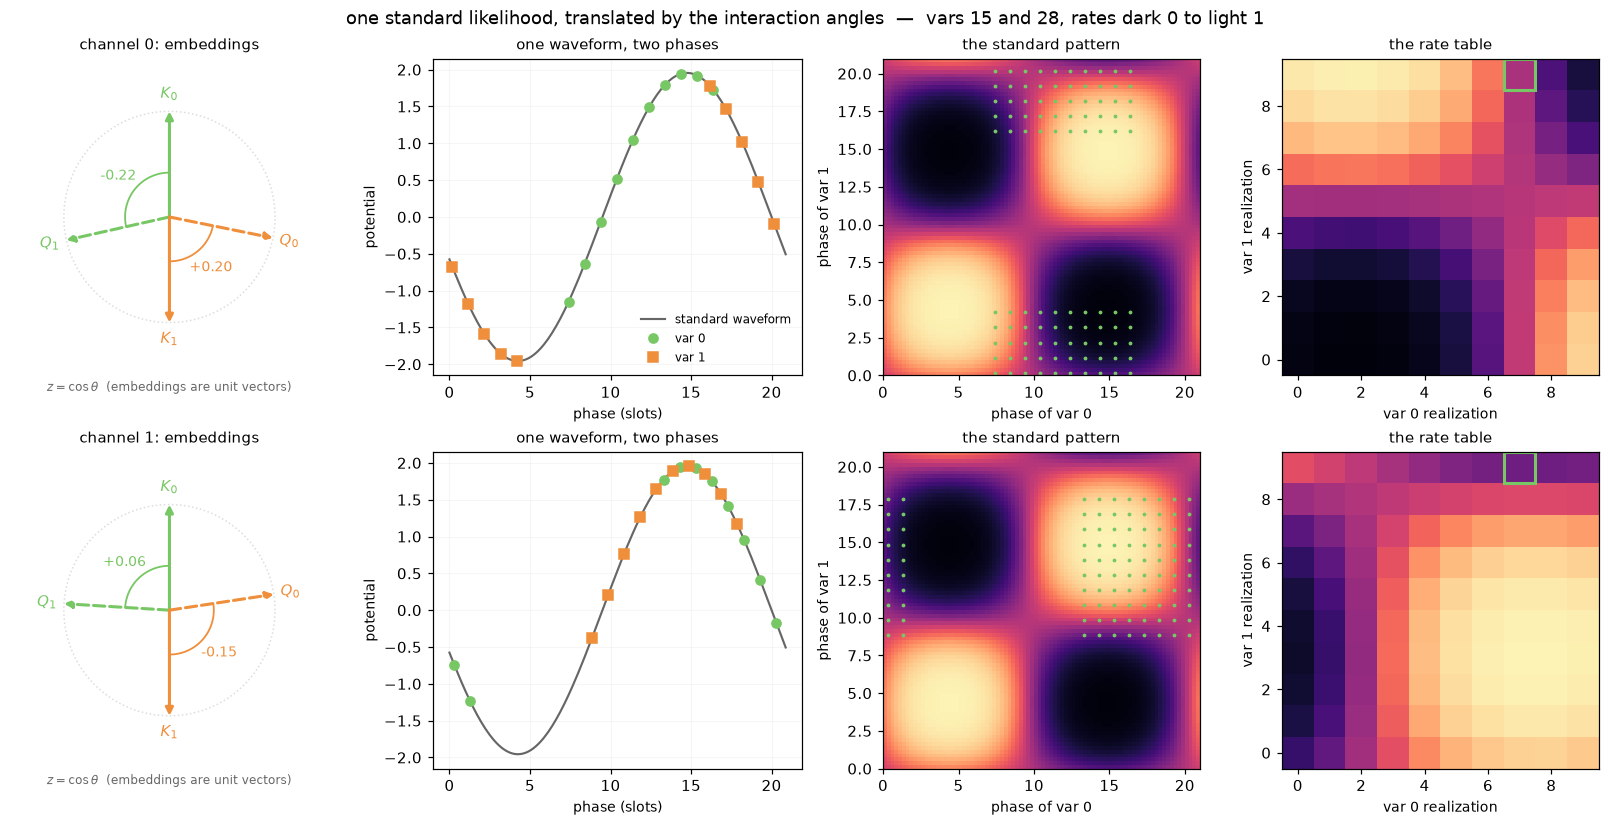
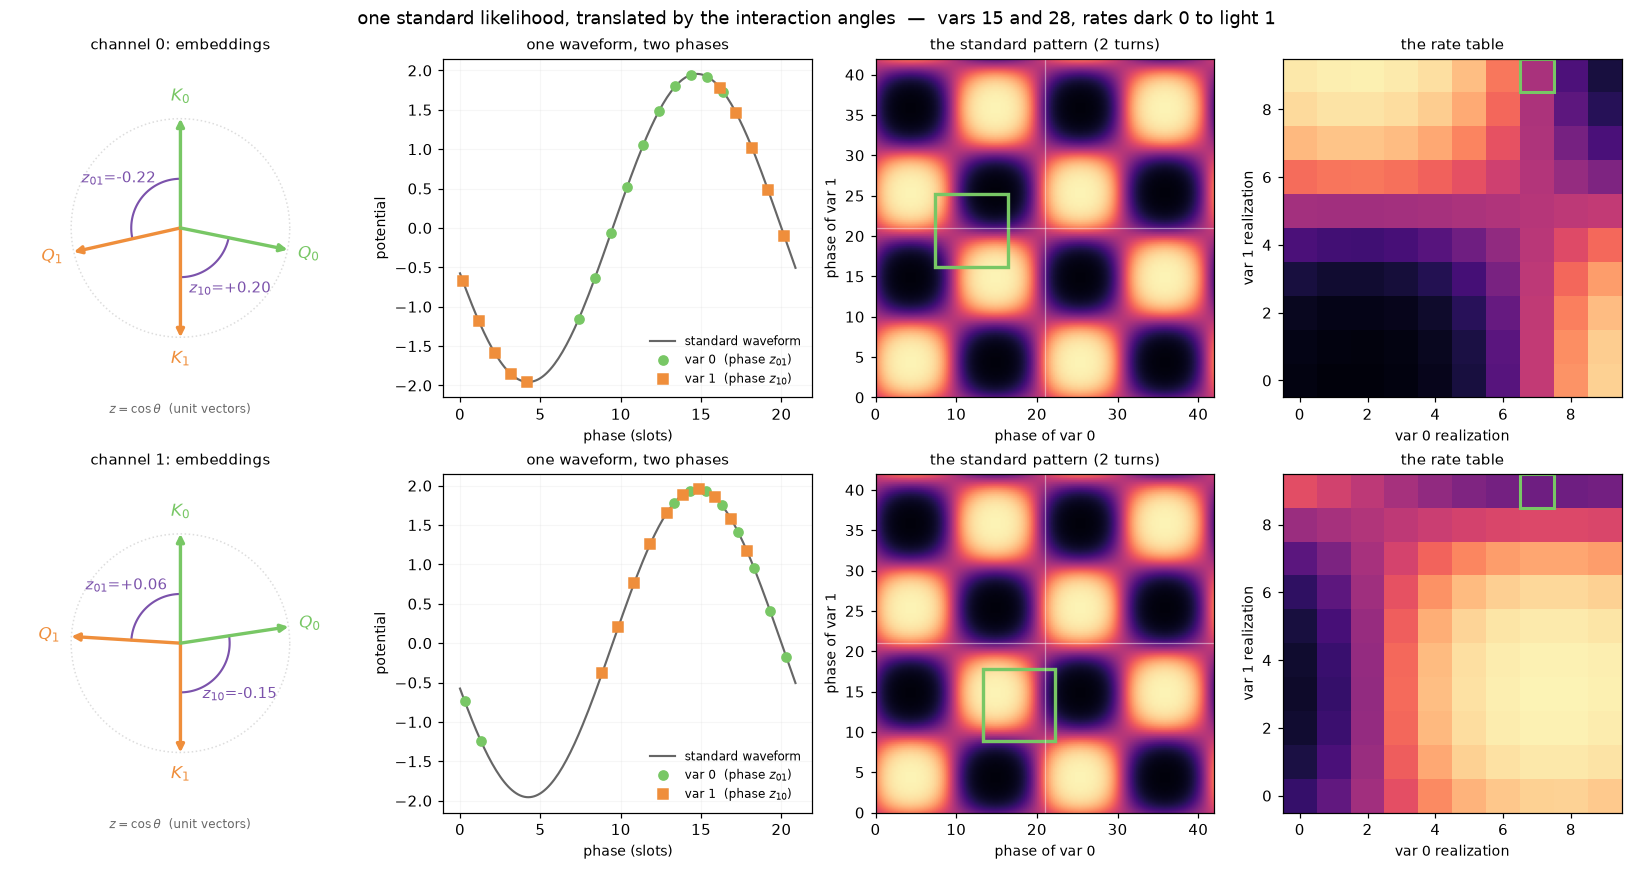
Clarify the phase figure: colour by variable, box the window
Three fixes, all from reading the figure rather than the code.

Colour now means one thing only: which variable owns a vector. Previously
`K_1` and `Q_0` shared a colour because they jointly set var 1's phase, which
read as a claim that they belong together. The interaction strength gets its
own colour, since it belongs to neither variable, and is labelled explicitly
as `z_01` / `z_10` rather than left implicit in an arc.

The window on the standard pattern was a grid of dots. Phase is periodic, and
this episode's window crosses the wrap, so `mod` scattered those dots into
what looked like two separate grids -- reasonably read as a second
observation's likelihood. The pattern is now drawn over two turns with the
window as a single box, so a window running off one edge visibly continues on
the next copy.

diff --git a/src/coggrid/viz/plots.py b/src/coggrid/viz/plots.py
@@ -734,28 +734,51 @@ def _wave_at(cfg, waveform: np.ndarray, position: np.ndarray) -> np.ndarray:
                      period=1.0)
 
 
-def _draw_angle(ax, cosine: float, baseline: float, colour: str,
-                tips: tuple[str, str]) -> None:
-    """Draw one key/query pair as arrows on a unit circle, ``cosine`` apart.
+#: Interaction strengths get their own colour throughout the phase figure, so
+#: that variable colours can mean "which variable owns this vector" and nothing
+#: else.
+PHASE_COLOR = "#7b52ab"
 
-    The two vectors span a plane, and they are drawn *in that plane*, so the
-    angle between the arrows is the true angle in the full embedding space — not
-    a projection of it. Only the absolute orientation is arbitrary, which is why
-    each pair gets its own ``baseline``.
+
+def _standard_waveform(cfg, n_samples: int = 2001) -> np.ndarray:
+    """The one potential waveform every variable is a phase-shifted copy of.
+
+    Recovered by reading realization 0 as the interaction strength sweeps a full
+    turn, which is the same thing as evaluating the waveform at every phase.
+    """
+    turn = np.linspace(0.0, 1.0, n_samples)[:-1]
+    return gen.realization_potential(turn, gen.value_profile(cfg), cfg.n_roll)[:, 0]
+
+
+def _wave_at(cfg, waveform: np.ndarray, position: np.ndarray) -> np.ndarray:
+    """Evaluate the standard waveform at a continuous circular ``position``."""
+    turn = np.linspace(0.0, 1.0, waveform.size + 1)[:-1]
+    return np.interp(np.mod(position, cfg.n_roll) / cfg.n_roll, turn, waveform,
+                     period=1.0)
+
+
+def _draw_angle(ax, cosine: float, baseline: float, colours: tuple[str, str],
+                tips: tuple[str, str], label: str) -> None:
+    """Draw one key/query pair as arrows on a unit circle, ``arccos(cosine)`` apart.
+
+    The two vectors span a plane and are drawn *in that plane*, so the angle
+    between the arrows is their true angle in the full embedding space rather
+    than a projection of it. Only the absolute orientation is arbitrary, which is
+    why each pair gets its own ``baseline``.
     """
     theta = np.arccos(np.clip(cosine, -1.0, 1.0))
-    arrows = ((baseline, "-", tips[0]), (baseline + theta, "--", tips[1]))
-    for angle, style, tip in arrows:
+    arrows = ((baseline, colours[0], tips[0]), (baseline + theta, colours[1], tips[1]))
+    for angle, colour, tip in arrows:
         ax.annotate("", xy=(np.cos(angle), np.sin(angle)), xytext=(0, 0),
-                    arrowprops=dict(arrowstyle="-|>", color=colour, lw=2.0,
-                                    linestyle=style, shrinkA=0, shrinkB=0))
-        ax.text(1.16 * np.cos(angle), 1.16 * np.sin(angle), tip, color=colour,
-                ha="center", va="center", fontsize=10, weight="bold")
+                    arrowprops=dict(arrowstyle="-|>", color=colour, lw=2.2,
+                                    shrinkA=0, shrinkB=0))
+        ax.text(1.2 * np.cos(angle), 1.2 * np.sin(angle), tip, color=colour,
+                ha="center", va="center", fontsize=11)
     arc = np.linspace(baseline, baseline + theta, 60)
-    ax.plot(0.42 * np.cos(arc), 0.42 * np.sin(arc), color=colour, lw=1.2)
+    ax.plot(0.45 * np.cos(arc), 0.45 * np.sin(arc), color=PHASE_COLOR, lw=1.4)
     mid = baseline + theta / 2
-    ax.text(0.62 * np.cos(mid), 0.62 * np.sin(mid), f"{cosine:+.2f}", color=colour,
-            ha="center", va="center", fontsize=9)
+    ax.text(0.72 * np.cos(mid), 0.72 * np.sin(mid), label, color=PHASE_COLOR,
+            ha="center", va="center", fontsize=10)
 
 
 def plot_interaction_phases(
@@ -776,23 +799,25 @@ def plot_interaction_phases(
     variable's key and the other's query sets a phase, and the phase translates
     the pattern. The shape never changes.
 
-    One row per observation channel, and each row reads left to right:
+    One row per observation channel, reading left to right:
 
-    1. **Embeddings.** The key and query whose angle matters, drawn on a unit
-       circle. The cosine of that angle *is* the interaction strength, because
-       the embeddings are unit vectors. Both directions appear —
-       ``<K_i, Q_j>`` and ``<K_j, Q_i>`` — and they differ, which is what stops
-       the joint from being symmetric.
+    1. **Embeddings.** The key and query whose angle matters. Both are unit
+       vectors, so the cosine of that angle *is* the interaction strength ``z``.
+       Arrow colour says which variable owns the vector; ``z`` is drawn in its
+       own colour because it belongs to neither. Both directions appear, and
+       they differ — that asymmetry is what stops the joint from being symmetric.
     2. **Phase.** One waveform, read from two starting points. Both variables
        sample the same curve; their strengths only say where to start.
-    3. **The standard pattern**, over a full turn in both variables, with the
-       window this channel selects.
+    3. **The standard pattern**, with the window this channel selects. The
+       pattern is periodic, so it is drawn over two turns and the window is a
+       single box — a window that runs off one edge simply continues on the next
+       copy.
     4. **The rate table** that window yields.
 
-    Comparing the rows is the point: same pattern, different angles, different
-    window, different table. Two channels are drawn rather than all of them
-    because the channels are constructed to be independent, so two is enough to
-    show they do not move together.
+    Comparing the rows is the point: same waveform, same pattern, different
+    angles, different window, different table. Two channels are drawn rather than
+    all of them because the embeddings are orthogonalized across channels, so two
+    is enough to show the phases move independently.
 
     This describes the **built-in** likelihood. Passing your own ``likelihood=``
     to :class:`~coggrid.World` replaces the mechanism, and only the last column
@@ -837,64 +862,69 @@ def plot_interaction_phases(
     truth = batch.ctx_vals[episode]
 
     if figsize is None:
-        figsize = (15.0, 3.7 * len(channels))
+        figsize = (15.0, 3.9 * len(channels))
     if fig is None:
         fig = plt.figure(figsize=figsize, layout="constrained")
     axes = fig.subplots(len(channels), 4, squeeze=False)
 
-    # The standard pattern is the same in every row; that is the whole claim.
+    # The standard pattern is identical in every row — that is the whole claim.
+    # Drawn over two turns so a window that crosses the wrap stays one box.
     fine = np.arange(n_roll * 4) / 4.0
-    pattern = gen.sigmoid(np.outer(_wave_at(cfg, waveform, fine),
-                                   _wave_at(cfg, waveform, fine)))
+    tile = gen.sigmoid(np.outer(_wave_at(cfg, waveform, fine),
+                                _wave_at(cfg, waveform, fine)))
+    pattern = np.tile(tile, (2, 2))
 
     for row, channel in enumerate(channels):
-        # ── 1: the embeddings, and the angle between them
-        # Read from the batch rather than recomputed, so the panel cannot drift
-        # from the strengths the environment actually used.
+        # Read from the batch, so the panel cannot drift from the strengths the
+        # environment actually used.
         z_ij = float(batch.interactions[episode, channel,
                                         _pair_rank(i, j, cfg.n_contexts)])
         z_ji = float(batch.interactions[episode, channel,
                                         _pair_rank(j, i, cfg.n_contexts)])
 
+        # ── 1: the embeddings, and the angle between them
         ax = axes[row][0]
         circle = np.linspace(0, 2 * np.pi, 200)
         ax.plot(np.cos(circle), np.sin(circle), color=palette.grid, lw=1.0, ls=":")
-        _draw_angle(ax, z_ij, np.pi / 2, colour_i, (f"$K_{i}$", f"$Q_{j}$"))
-        _draw_angle(ax, z_ji, -np.pi / 2, colour_j, (f"$K_{j}$", f"$Q_{i}$"))
-        ax.set_xlim(-1.5, 1.5), ax.set_ylim(-1.5, 1.5)
+        _draw_angle(ax, z_ij, np.pi / 2, (colour_i, colour_j),
+                    (f"$K_{i}$", f"$Q_{j}$"), f"$z_{{{i}{j}}}$={z_ij:+.2f}")
+        _draw_angle(ax, z_ji, -np.pi / 2, (colour_j, colour_i),
+                    (f"$K_{j}$", f"$Q_{i}$"), f"$z_{{{j}{i}}}$={z_ji:+.2f}")
+        ax.set_xlim(-1.55, 1.55), ax.set_ylim(-1.55, 1.55)
         ax.set_aspect("equal"), ax.set_xticks([]), ax.set_yticks([])
         for spine in ax.spines.values():
             spine.set_visible(False)
         ax.set_title(f"channel {channel}: embeddings", fontsize=10)
-        ax.set_xlabel(r"$z = \cos\theta$  (embeddings are unit vectors)",
-                      fontsize=8, color="0.4")
+        ax.set_xlabel(r"$z = \cos\theta$  (unit vectors)", fontsize=8, color="0.4")
 
         # ── 2: one waveform, two starting phases
         ax = axes[row][1]
         turn = np.arange(n_roll * 8) / 8.0
         ax.plot(turn, _wave_at(cfg, waveform, turn), color="0.4", lw=1.4,
                 label="standard waveform")
-        for c, z, colour, marker in ((i, z_ij, colour_i, "o"),
-                                     (j, z_ji, colour_j, "s")):
+        for c, other, z, colour, marker in ((i, j, z_ij, colour_i, "o"),
+                                            (j, i, z_ji, colour_j, "s")):
             pos = z * n_roll - realizations
             ax.plot(np.mod(pos, n_roll), _wave_at(cfg, waveform, pos), marker,
-                    ms=6, color=colour, label=f"var {c}")
+                    ms=6, color=colour, label=f"var {c}  (phase $z_{{{c}{other}}}$)")
         ax.set_title("one waveform, two phases", fontsize=10)
         ax.set_xlabel("phase (slots)", fontsize=9)
         ax.set_ylabel("potential", fontsize=9)
         ax.grid(alpha=0.25, color=palette.grid)
-        if row == 0:
-            ax.legend(fontsize=8, frameon=False, loc="lower right")
+        ax.legend(fontsize=8, frameon=False, loc="lower right")
 
         # ── 3: which window of the standard pattern this channel picks
         ax = axes[row][2]
         ax.imshow(pattern.T, origin="lower", cmap="magma", vmin=0.0, vmax=1.0,
-                  extent=(0, n_roll, 0, n_roll))
-        window_i = np.mod(z_ij * n_roll - realizations, n_roll)
-        window_j = np.mod(z_ji * n_roll - realizations, n_roll)
-        ax.plot(np.repeat(window_i, n_r), np.tile(window_j, n_r), ".",
-                color=palette.goal, ms=3.0)
-        ax.set_title("the standard pattern", fontsize=10)
+                  extent=(0, 2 * n_roll, 0, 2 * n_roll))
+        lo_i = np.mod(z_ij * n_roll - (n_r - 1), n_roll)
+        lo_j = np.mod(z_ji * n_roll - (n_r - 1), n_roll)
+        ax.add_patch(Rectangle((lo_i, lo_j), n_r - 1, n_r - 1, edgecolor=palette.goal,
+                               facecolor="none", lw=2.2))
+        for edge in (n_roll,):  # where the pattern starts repeating
+            ax.axvline(edge, color="white", lw=0.8, alpha=0.45)
+            ax.axhline(edge, color="white", lw=0.8, alpha=0.45)
+        ax.set_title("the standard pattern (2 turns)", fontsize=10)
         ax.set_xlabel(f"phase of var {i}", fontsize=9)
         ax.set_ylabel(f"phase of var {j}", fontsize=9)
 

diff --git a/README.md b/README.md
@@ -146,16 +146,18 @@ One row per observation channel, reading left to right:
 
 1. **Embeddings.** Each latent variable carries a **key** and a **query** vector
    per channel. Both are unit vectors, so the cosine of the angle between one
-   variable's key and the other's query *is* the interaction strength `z`. Both
-   directions are drawn — `⟨K_i, Q_j⟩` and `⟨K_j, Q_i⟩` — and they differ, which
-   is what stops the joint from being symmetric. The arrows are drawn in the
-   plane the two vectors actually span, so the angle you see is the real one, not
-   a projection.
+   variable's key and the other's query *is* the interaction strength `z`. Arrow
+   colour says which variable owns the vector; `z` has its own colour because it
+   belongs to neither. Both directions are drawn — `z₀₁` and `z₁₀` — and they
+   differ, which is what stops the joint from being symmetric. The arrows sit in
+   the plane the two vectors actually span, so the angle you see is the real one,
+   not a projection of it.
 2. **Phase.** The potential over realizations is a single sinusoid shifted by
    `−2π · likelihood_freq · z`. Both variables read the *same* waveform; their
    strengths only say where to start.
-3. **The standard pattern**, over a full turn in both variables, with the window
-   this channel selects.
+3. **The standard pattern**, with the window this channel selects. Phase is
+   periodic, so the pattern is drawn over two turns: a window that runs off one
+   edge continues on the next copy, and stays a single box.
 4. **The rate table** that window yields.
 
 Comparing the rows is the point: same waveform, same pattern, different angles,
